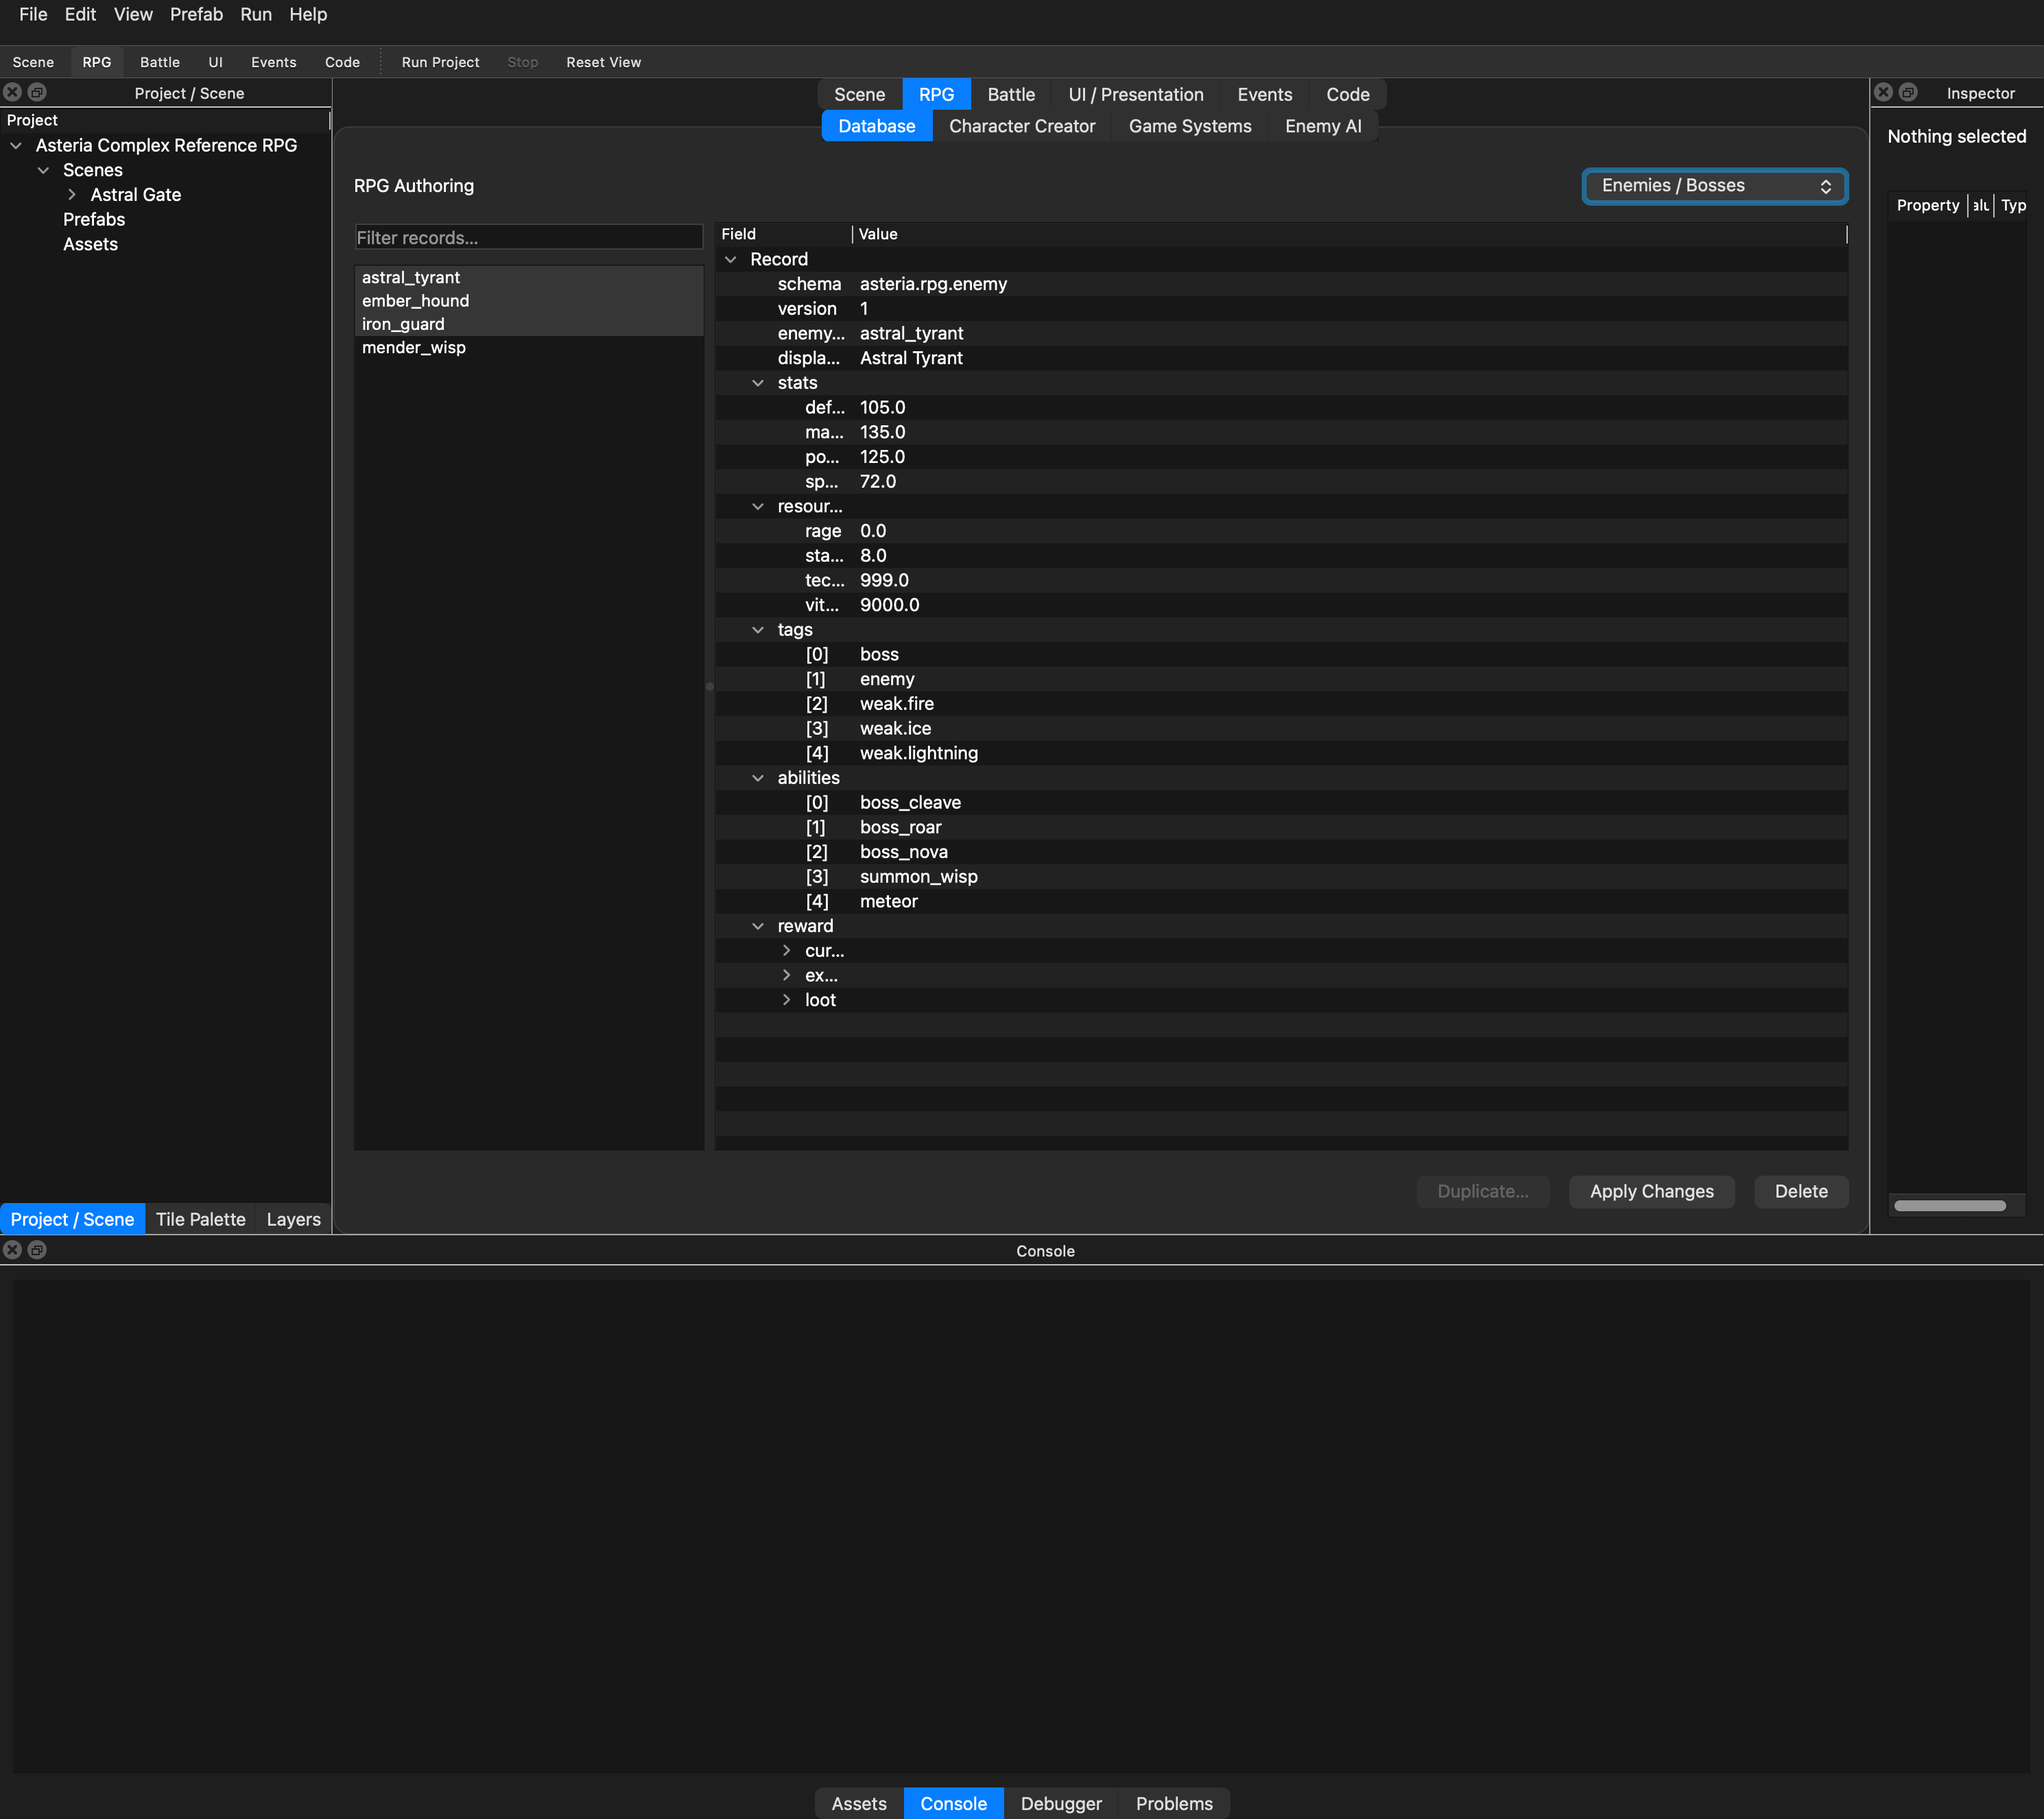
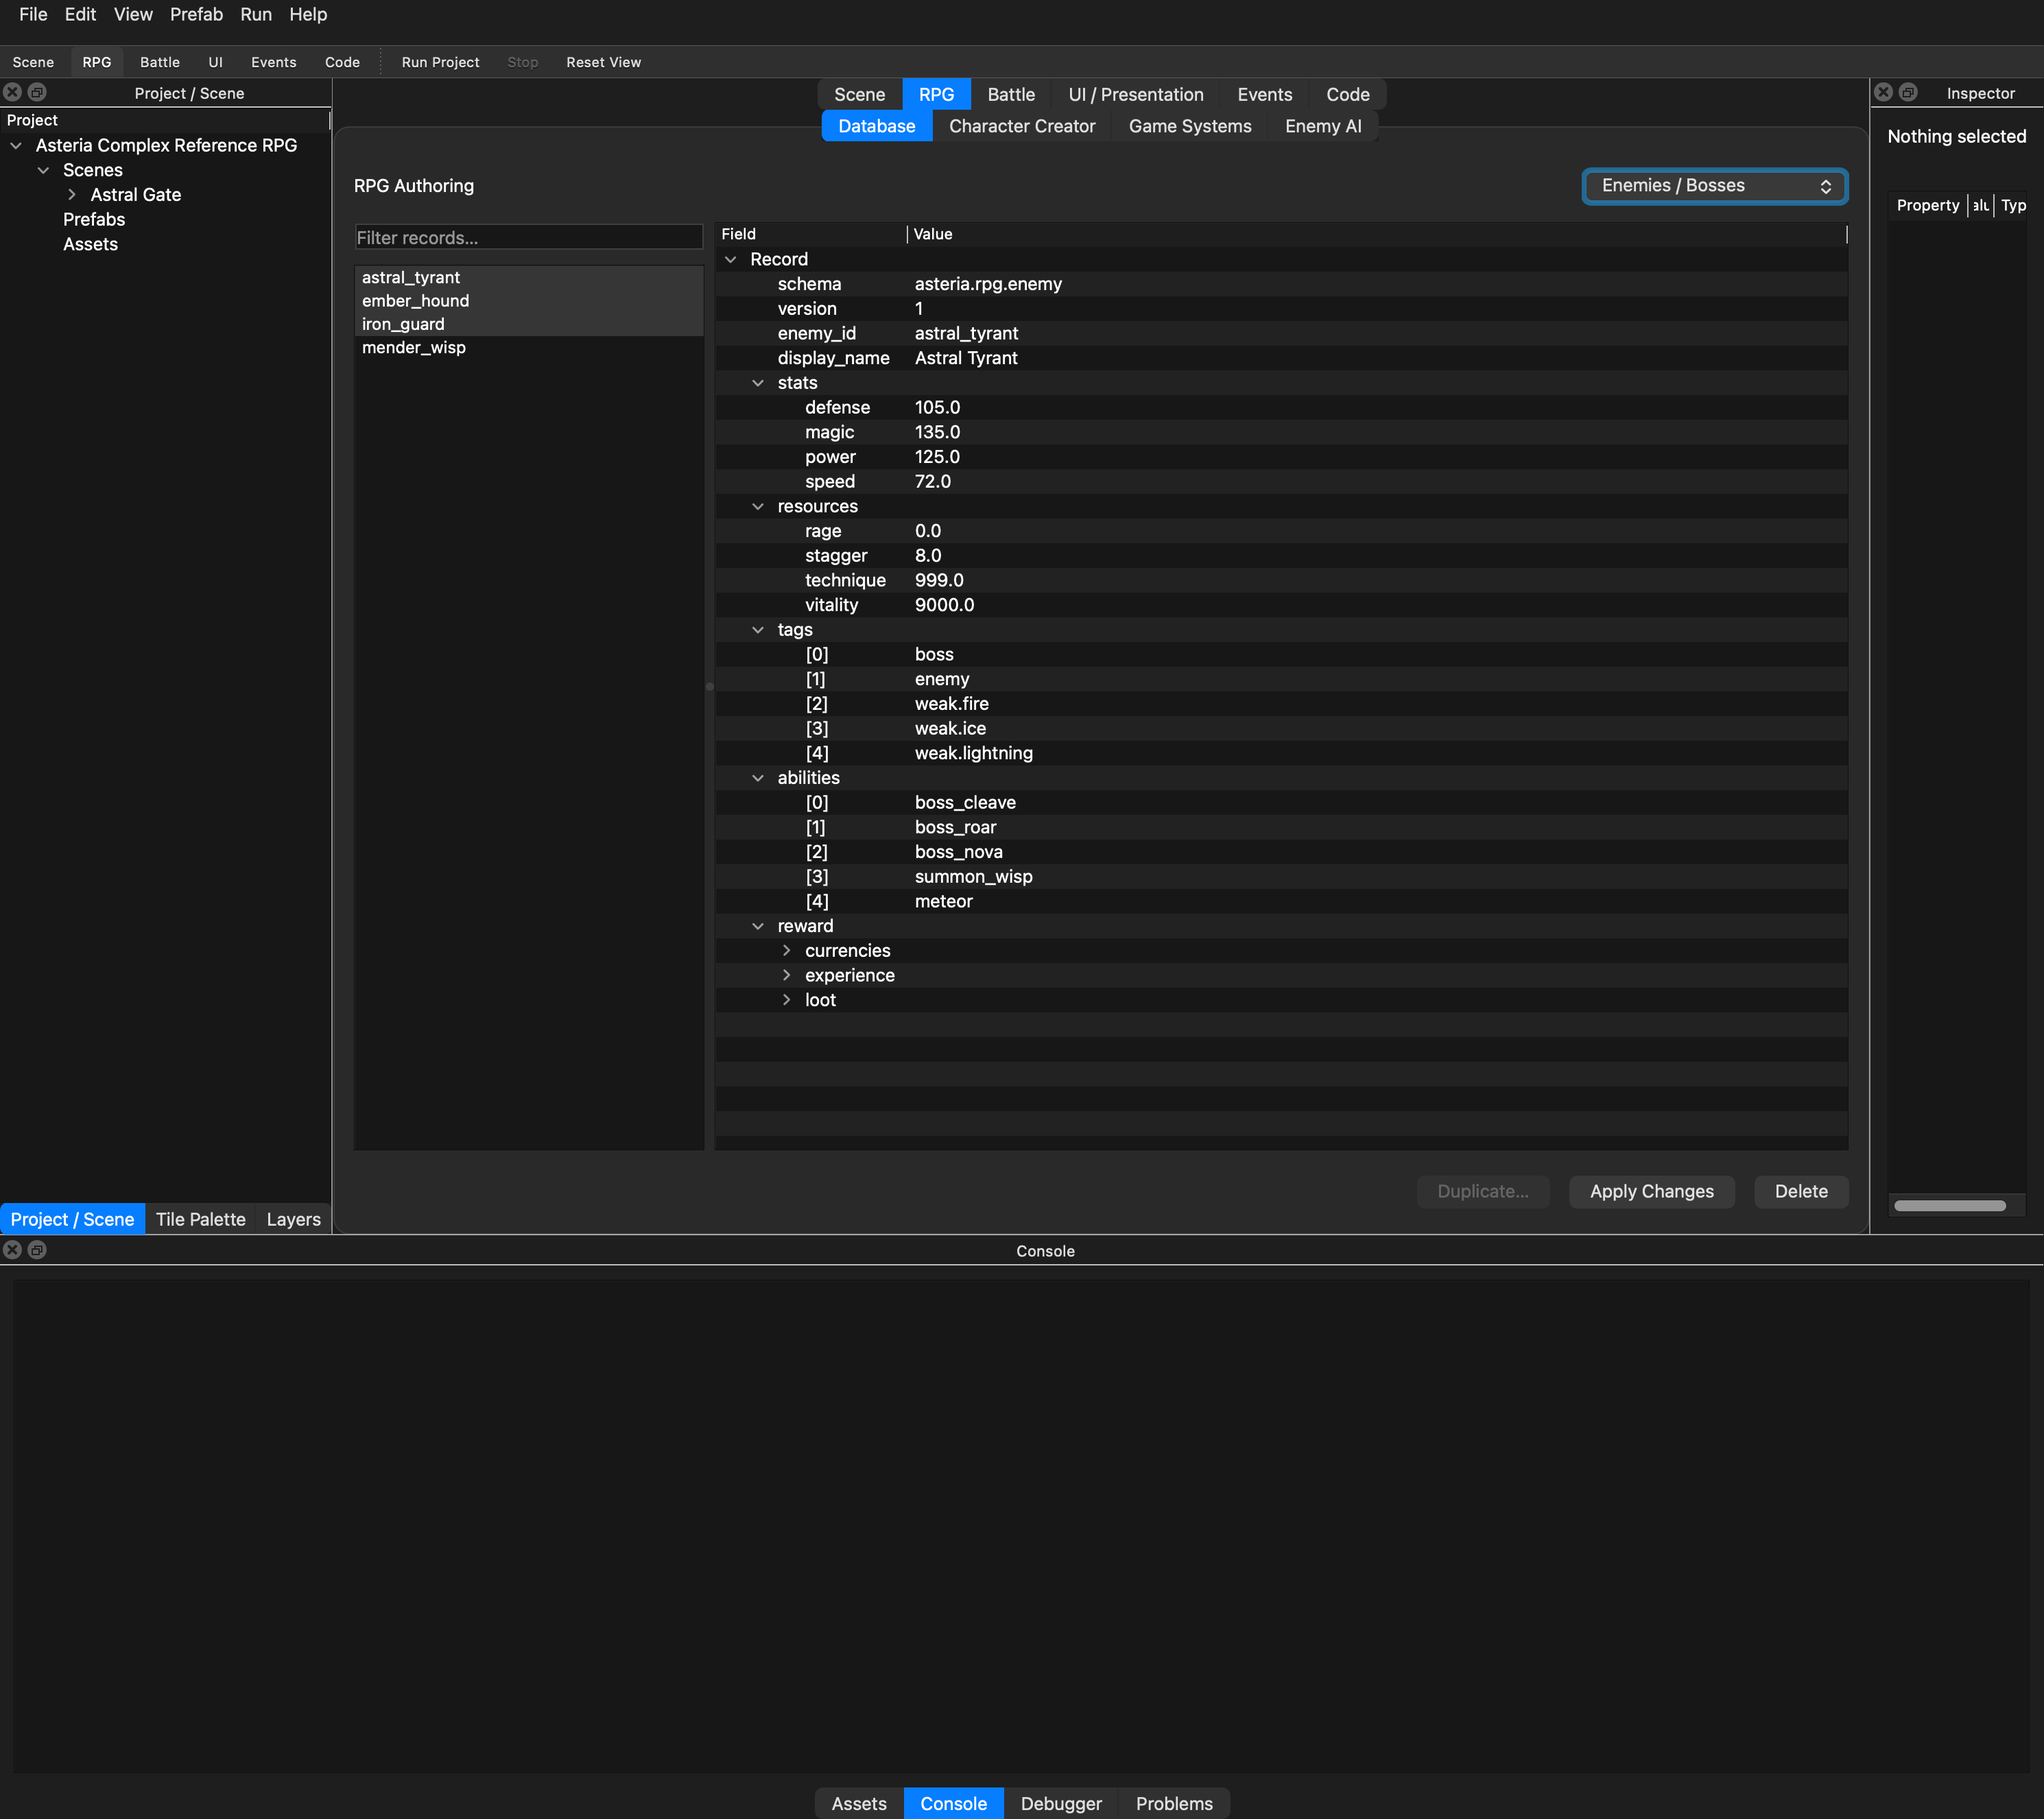
fix(editor): record field names were truncated in the authoring record editor
Found reviewing the Cocoa screenshots ("def...", "resour..."); the field
column now fits its contents (140-360 px). Evidence refreshed.

Changed region(s): [[0.4057, 0.371, 0.4993, 0.5566], [0.4057, 0.1546, 0.4993, 0.3401]]

diff --git a/src/asteria/editor/authoring_hub_widget.py b/src/asteria/editor/authoring_hub_widget.py
@@ -141,6 +141,8 @@ class StructuredRecordEditor(QTreeWidget):
             self._data = deepcopy(data)
             self._append(None, self._data, "Record", ())
             self.expandToDepth(1)
+            self.resizeColumnToContents(0)  # full field names (they were cut to "def…", "resour…")
+            self.setColumnWidth(0, min(max(self.columnWidth(0), 140), 360))
         finally:
             self.blockSignals(False)
 
